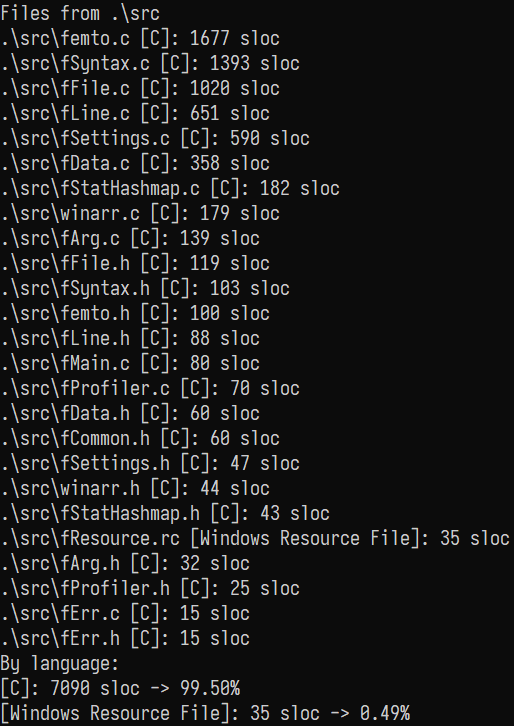
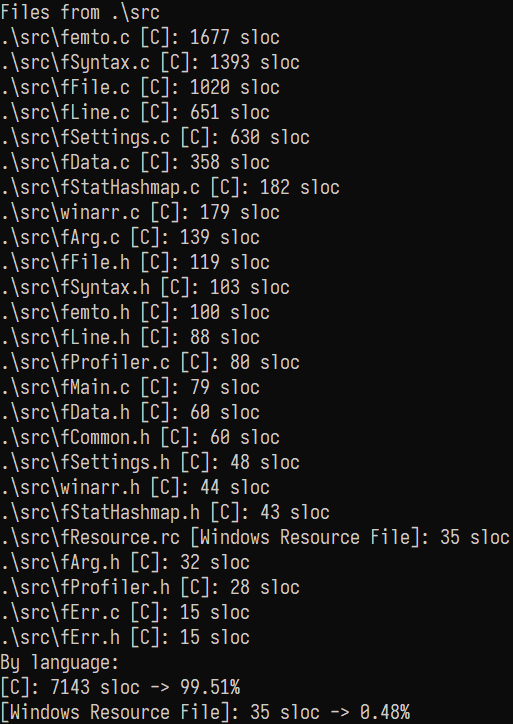
Profiler improvement

Changed region(s): [[0.0, 0.0, 0.9981, 1.0], [0.655, 0.9724, 0.8109, 1.0]]

diff --git a/src/fSettings.c b/src/fSettings.c
@@ -10,20 +10,22 @@ void fSettings_reset(fSettings_t * restrict self)
 	assert(self != NULL);
 
 	*self = (fSettings_t){
-		.bHelpRequest     = false,
 		.fileName         = NULL,
 		.settingsFileName = NULL,
 
-		.bTabsToSpaces = false,
-		.tabWidth      = 4,
-		.tabSpaceStr1  = NULL,
+		.tabWidth     = 4,
+		.tabSpaceStr1 = NULL,
 
-		.bAutoIndent = true,
 		
-		.bWhiteSpaceVis = false,
-		.whitespaceCh   = L'→',
-		.whitespaceCol  = FEMTO_DEFAULT_COLOR,
+		.whitespaceCh  = L'→',
+		.whitespaceCol = FEMTO_DEFAULT_COLOR,
 
+		.bHelpRequest   = false,
+		.bTabsToSpaces  = false,
+		.bAutoIndent    = true,
+		.bWhiteSpaceVis = false,
+		.bEnableLogging = false,
+		
 		.bRelLineNums = false,
 		.lineNumCol   = FEMTO_DEFAULT_COLOR,
 
@@ -327,6 +329,36 @@ fErr_e fSettings_cmdLine(fSettings_t * restrict self, int argc, const wchar ** r
 		argumentsUsed[mi - 1] = true;
 	}
 
+	fArg_fetchArgv(argc, argv, L"loggingMode", &mi, 1, &farg);
+	if (mi == 0)
+	{
+		fArg_fetchArgv(argc, argv, L"logging", &mi, 1, &farg);
+	}
+	if (mi == 0)
+	{
+		fArg_fetchArgv(argc, argv, L"logEnable", &mi, 1, &farg);
+	}
+	if (mi == 0)
+	{
+		fArg_fetchArgv(argc, argv, L"logMode", &mi, 1, &farg);
+	}
+	if (mi == 0)
+	{
+		fArg_fetchArgv(argc, argv, L"loggerEnable", &mi, 1, &farg);
+	}
+	if (mi == 0)
+	{
+		fArg_fetchArgv(argc, argv, L"logger", &mi, 1, &farg);
+	}
+	if (mi == 0)
+	{
+		fArg_fetchArgv(argc, argv, L"log", &mi, 1, &farg);
+	}
+	if (mi != 0)
+	{
+		self->bEnableLogging = fArg_strToBool(farg);
+		argumentsUsed[mi - 1] = true;
+	}
 
 	/* *************************************************** */
 
@@ -372,6 +404,8 @@ fErr_e fSettings_cmdLine(fSettings_t * restrict self, int argc, const wchar ** r
 
 	// Everything is OK
 	free(argumentsUsed);
+
+	fProf_enable(self->bEnableLogging);
 
 	return (result == NULL) ? ferrOK : ferrUNKNOWN;
 }
@@ -617,6 +651,15 @@ const wchar * fSettings_loadFromFile(fSettings_t * restrict self)
 		if (((val = s_fSettings_checkColor(obj, "lineNumColor", self->palette.colorNames)) != CHECK_ERR) && (val != def.lineNumCol))
 		{
 			self->lineNumCol = val;
+		}
+
+		if ((attr = jsonObject_get(obj, "logging")) != NULL)
+		{
+			const bool value = jsonValue_getBoolean(attr, &suc);
+			if (suc && (def.bEnableLogging != value))
+			{
+				self->bEnableLogging = value;
+			}
 		}
 
 		// Fill palette

diff --git a/src/fProfiler.c b/src/fProfiler.c
@@ -7,6 +7,17 @@
 
 static FILE * s_profilingFile = NULL;
 
+void fProf_enable(bool enable)
+{
+	if (enable && (s_profilingFile == NULL))
+	{
+		fProf_init();
+	}
+	else if (!enable && (s_profilingFile != NULL))
+	{
+		fProf_close();
+	}
+}
 void fProf_init(void)
 {
 	s_profilingFile = fopen(FEMTO_PROFILER_FILE, "a+");	
@@ -36,7 +47,6 @@ void fProf_write_inner(const char * restrict function, const char * restrict for
 
 	if (s_profilingFile == NULL)
 	{
-		fputs("Profiling file not open!\n", stderr);
 		return;
 	}
 

diff --git a/src/fSettings.h b/src/fSettings.h
@@ -21,20 +21,22 @@ typedef struct fPalette
 
 typedef struct fSettings
 {
-	bool bHelpRequest:1;
 	wchar * fileName;
 	wchar * settingsFileName;
 
-	bool bTabsToSpaces:1;
 	u8 tabWidth;
 	wchar * tabSpaceStr1;	// Contains space characters
 
-	bool bAutoIndent:1;
 
-	bool bWhiteSpaceVis:1;
 	wchar whitespaceCh;
 	WORD whitespaceCol;
 
+	bool bHelpRequest:1;
+	bool bTabsToSpaces:1;
+	bool bAutoIndent:1;
+	bool bWhiteSpaceVis:1;
+	bool bEnableLogging:1;
+	
 	bool bRelLineNums:1;
 	WORD lineNumCol;
 

diff --git a/src/fData.c b/src/fData.c
@@ -71,7 +71,7 @@ bool fData_init(fData_t * restrict self)
 	self->scrbuf.w = (u32)(csbi.srWindow.Right  - csbi.srWindow.Left + 1);
 	self->scrbuf.h = (u32)(csbi.srWindow.Bottom - csbi.srWindow.Top  + 1);
 
-	fProf_write("Screen buffer size: %u %u\n", self->scrbuf.w, self->scrbuf.h);
+	fProf_write("Screen buffer size: %u %u", self->scrbuf.w, self->scrbuf.h);
 	// Create screen buffer
 	self->scrbuf.handle = CreateConsoleScreenBuffer(
 		GENERIC_READ | GENERIC_WRITE,

diff --git a/src/fProfiler.h b/src/fProfiler.h
@@ -6,6 +6,12 @@
 #include "fCommon.h"
 
 /**
+ * @brief Enables/disables the logger
+ * 
+ * @param enable Determines whether to enable or disable the logger
+ */
+void fProf_enable(bool enable);
+/**
  * @brief Initialise profiler, exits on failure
  * 
  */
@@ -40,6 +46,7 @@ void fProf_end_inner(const char * funcName);
 
 #else
 
+#define fProf_enable(enable)
 #define fProf_init()
 #define fProf_close()
 #define fProf_write(...)

diff --git a/src/fCommon.h b/src/fCommon.h
@@ -47,7 +47,7 @@ typedef unsigned char uchar;
 
 
 // Since 0x88 - 0x8F are unassigned, they are free to be used by my editor
-#define FEMTO_PROFILER_FILE "profiler.txt"
+#define FEMTO_PROFILER_FILE "femto.log"
 #define FEMTO_PROFILER_STACK_SIZE 256
 
 

diff --git a/src/fMain.c b/src/fMain.c
@@ -18,9 +18,6 @@ int wmain(int argc, const wchar * argv[])
 		return 1;
 	}
 
-	// Initialise profiler, if applicable
-	fProf_init();
-
 	// Limit the scope of errCode
 	{
 		fErr_e errCode = fSettings_cmdLine(&editor.settings, argc, argv);

diff --git a/README.md b/README.md
@@ -13,7 +13,7 @@ It is also written in vanilla C & Win32 Console API - it's designed to be used s
 It has been compiled with MinGW GCC.
 
 Currently, my other tool [slocWin32](https://github.com/makuke1234/slocWin32)
-reports ~7100 source code lines (excluding whitespace, comments, language keywords & [jsonlite2](https://github.com/makuke1234/jsonlite2) library):
+reports ~7200 source code lines (excluding whitespace, comments, language keywords & [jsonlite2](https://github.com/makuke1234/jsonlite2) library):
 
 ![SLOC](./images/sloc.png)
 
@@ -137,6 +137,13 @@ reports ~7100 source code lines (excluding whitespace, comments, language keywor
 	| --lineNumRelative=\[value\]   | Value can be either true/false or 1/0               |
 	| --lineNumColor=\[value\]      | Specifies line number color, number between 0-255   |
 	| --lineNumCol=\[value\]        | Same as above                                       |
+	| --logging=\[value\]           | Specifies whether logging mode is enabled           |
+	| --loggingMode=\[value\]       | Same as above                                       |
+	| --log=\[value\]               | Same as above                                       |
+	| --logMode=\[value\]           | Same as above                                       |
+	| --logEnable=\[value\]         | Same as above                                       |
+	| --logger=\[value\]            | Same as above                                       |
+	| --loggerEnable=\[value\]      | Same as above                                       |
 - [x] List of settings:
 	| Setting             | Type    |
 	| ------------------- | ------- |
@@ -148,6 +155,7 @@ reports ~7100 source code lines (excluding whitespace, comments, language keywor
 	| whitespaceColor     | number  |
 	| lineNumRelative     | boolean |
 	| lineNumColor        | number  |
+	| logging             | boolean |
 	| palette             | object  |
 	| highlighting        | object  |
 
@@ -206,6 +214,9 @@ Have a look at the provided [settings file](./settings.json) to get a better und
 * 2.2 (planned)
 	* [ ] Fix bug that editor sometimes crashes on Shift+Tab
 	* [x] Document winarr structure implementation & enforce `restrict` pointers
+	* [x] Add logging mode as a command-line option + setting in settings.json
+	* [x] Change logging destination file to `femto.log`
+	* [x] Better logging in debug mode
 
 * 2.1
 	* [x] Pointer checking in every function
